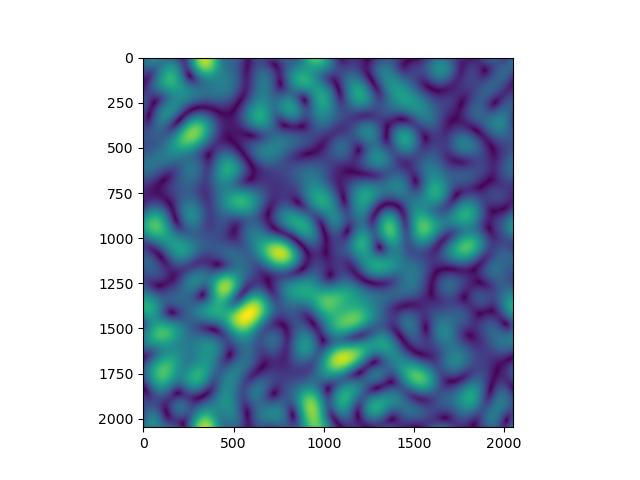
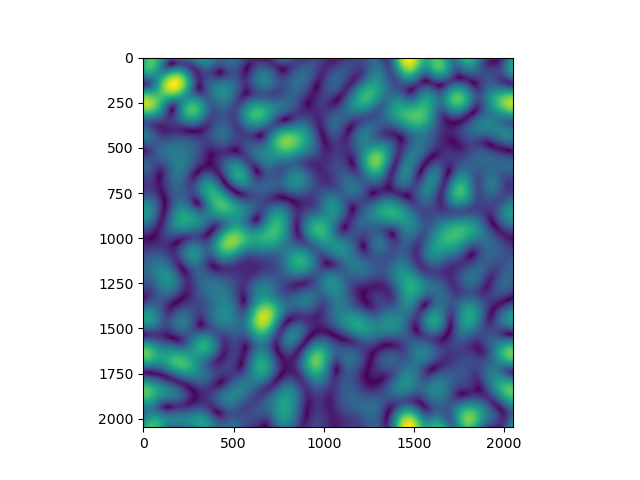
Data for I = 200mW

diff --git a/raul/thermalization/thermalization.py b/raul/thermalization/thermalization.py
@@ -13,7 +13,7 @@ n2 = -1.6e-9
 k_max = 2*np.pi*0.5e3 # maximum k vector of the beam profile
 #waist = 2.23e-3
 window = 8 * 2*np.pi/k_max
-puiss = 1.05
+puiss = 1.0
 Isat = 10e4  # saturation intensity in W/m^2
 L = 500e-3
 alpha = 2
@@ -76,7 +76,7 @@ def main():
             i (int): The main loop index
             E (np.ndarray): The array of samples
         """
-        if i % save_every == 0:
+        if (i+1) % save_every == 0:
             E_samples[i//save_every+1] = A.get()
             z_samples[i//save_every+1] = z
  
@@ -117,13 +117,14 @@ def main():
     k_max_plot = 200*k_max
     plot_index = int(k_max_plot/k_step)
     plt.figure()
-    for ii in np.arange(N_samples):
-        plt.loglog(k_r[0:plot_index],radial_mean_fft[ii,0:plot_index])
+    for ii in np.arange(N_samples+1):
+        plt.loglog(k_r[0:plot_index],radial_mean_fft[ii,0:plot_index],label=(str("%.2f" % z_samples[ii])+" m"))
 
-    exponent = -8
-    in_min = 20
-    in_max = 100
-    plt.loglog(k_r[in_min:in_max],(k_r[in_min:in_max]/k_max/10)**exponent)
+    #exponent = -8
+    #in_min = 20
+    #in_max = 100
+    #plt.loglog(k_r[in_min:in_max],(k_r[in_min:in_max]/k_max/10)**exponent)
+    plt.legend()
     plt.savefig("img/azimuthal_fft_out.png")
 
     plt.figure()
@@ -132,8 +133,9 @@ def main():
 
 
     plt.figure()
-    for ii in np.arange(N_samples):
-        plt.semilogy(k_r,radial_mean_fft[ii])
+    for ii in np.arange(N_samples+1):
+        plt.semilogy(k_r,radial_mean_fft[ii],label=(str("%.2f" % z_samples[ii])+" m"))
+    plt.legend()
     plt.savefig("img/azimuthal_fft_out_1.png")
 
 if __name__ == "__main__":
